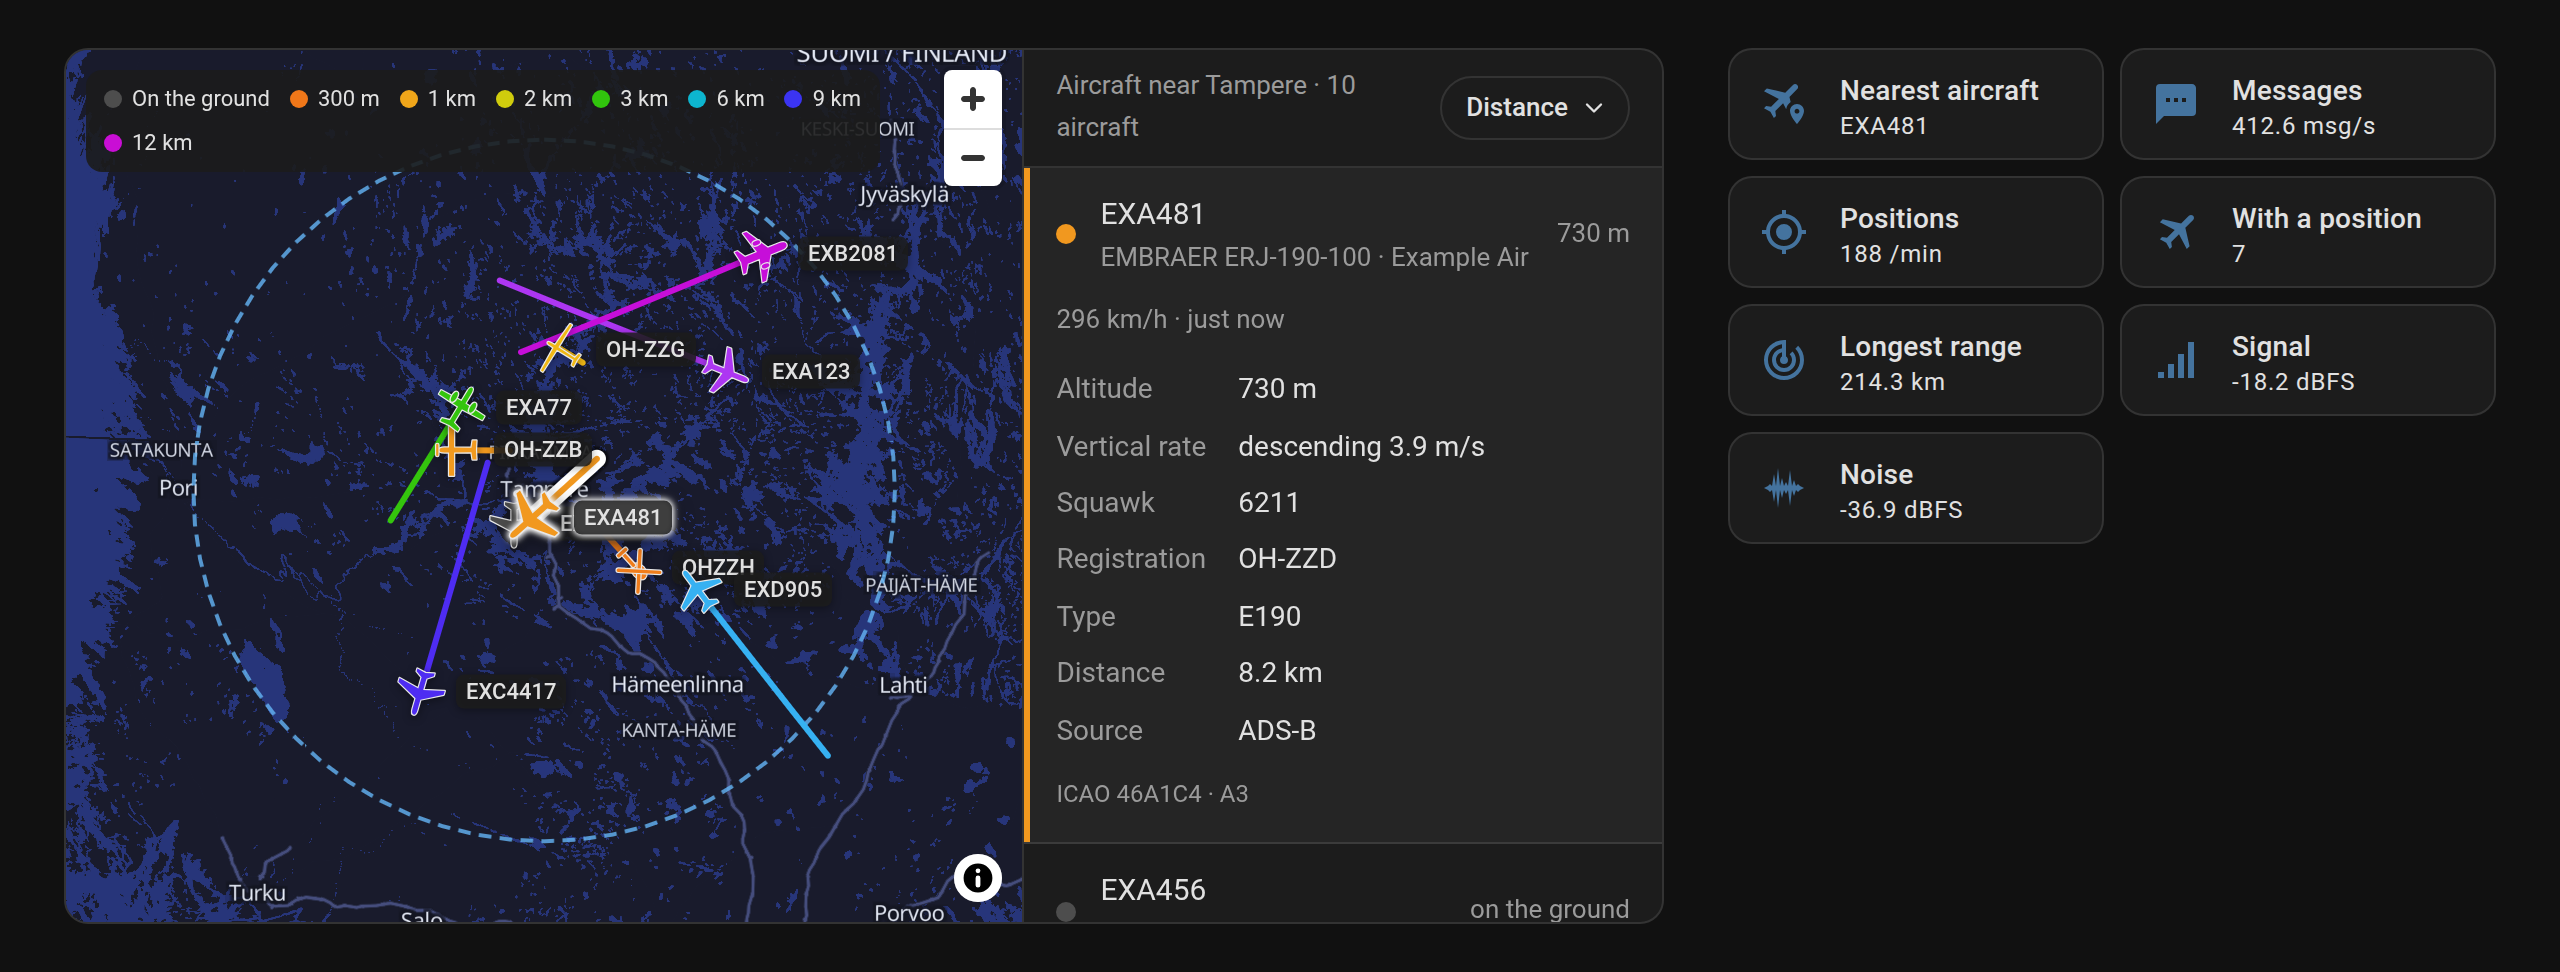
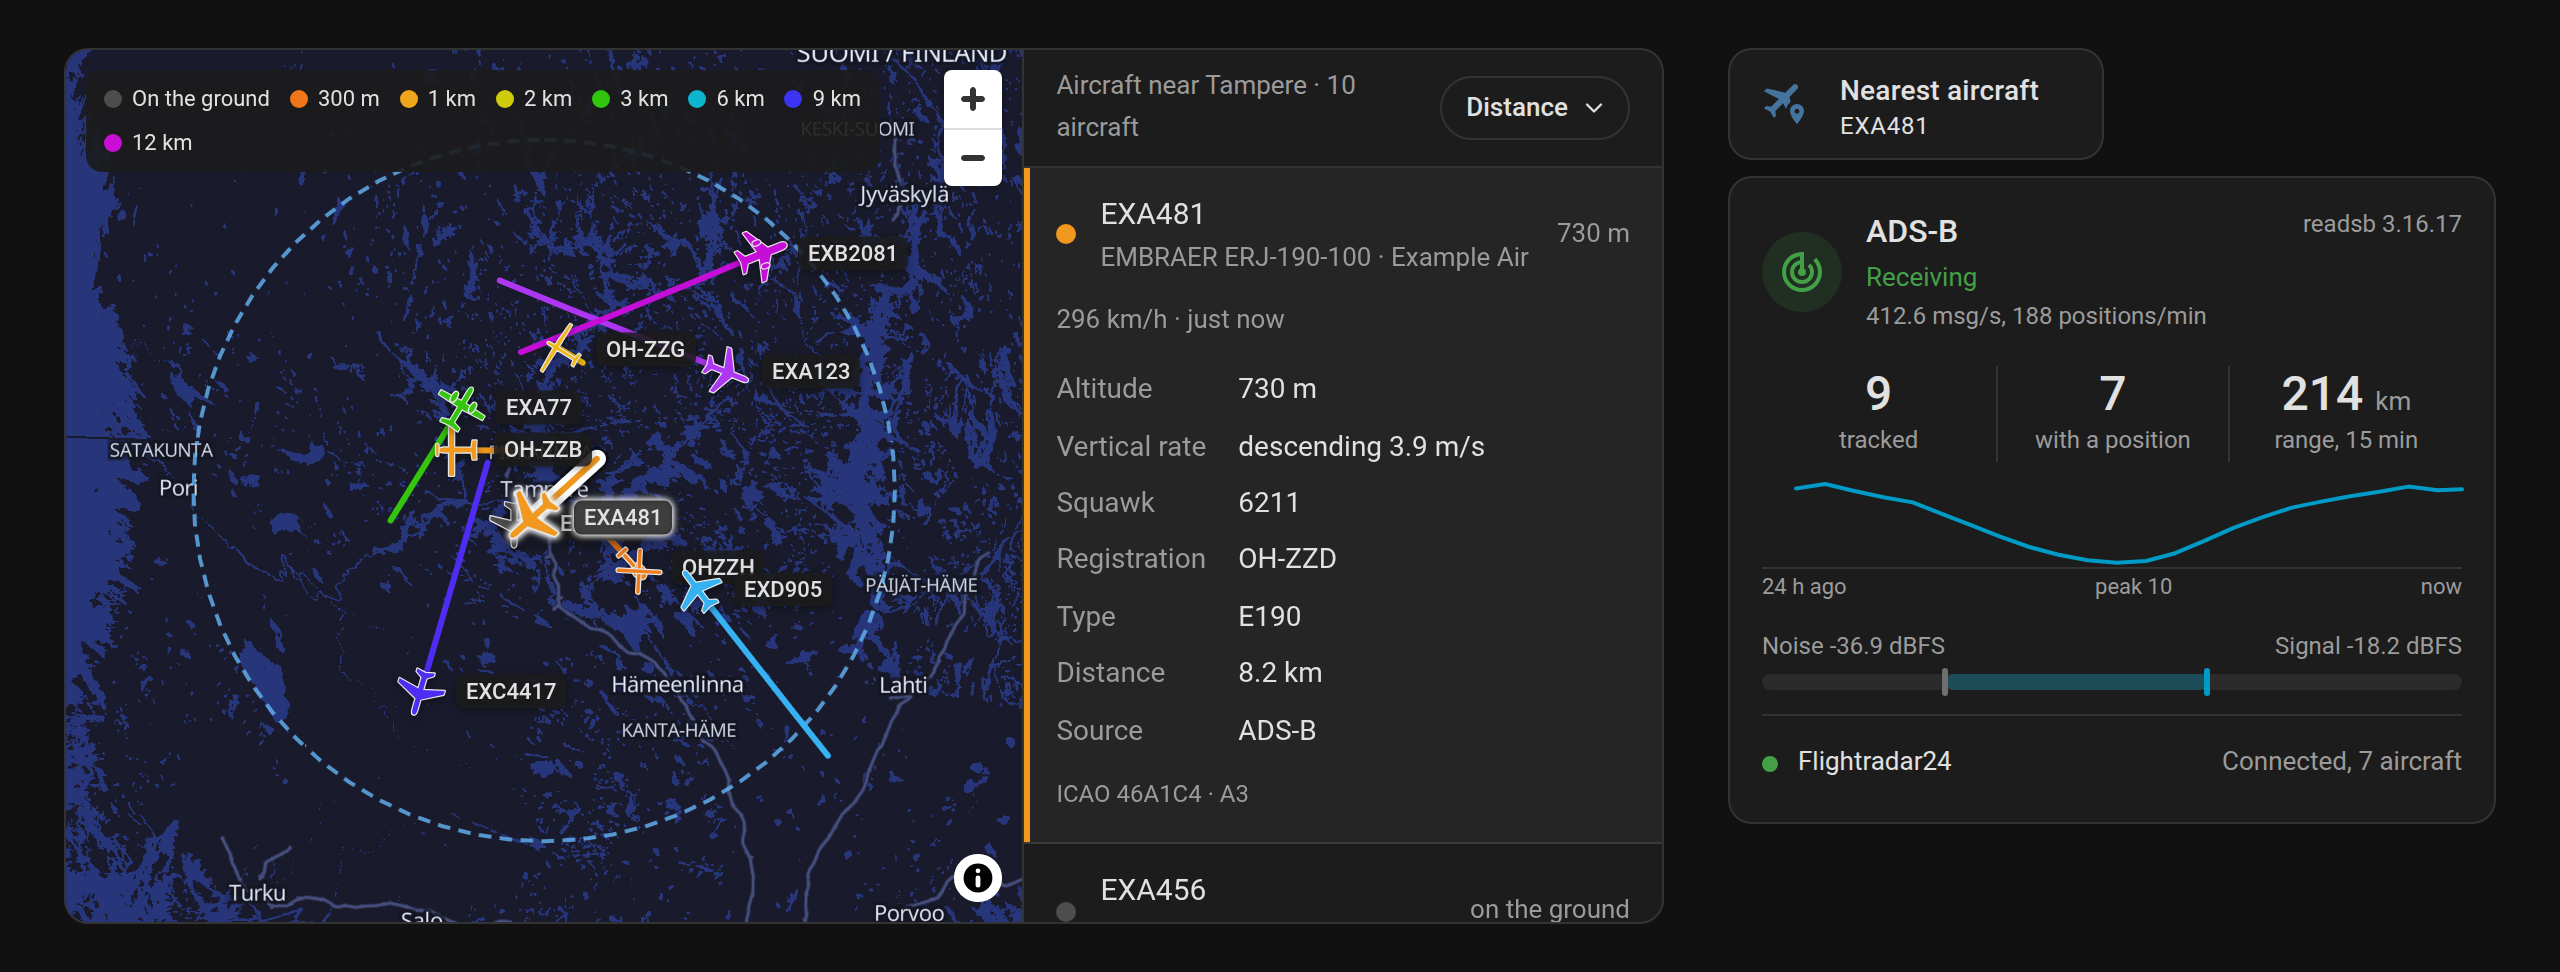
README: the receiver card in the hero image
The receiver's six tiles give way to adsb-receiver-card under the nearest aircraft, as on a real dashboard, with a made-up receiver and a day of hourly statistics in docs/screenshots.json.

diff --git a/README.md b/README.md
@@ -5,8 +5,8 @@ community network knows, into map feeds, with sensors for the receiver's health.
 
 [![GitHub Release][releases-shield]][releases] [![GitHub Release Date][release-date-shield]][releases] [![HACS][hacs-shield]][hacs] [![License][license-shield]](LICENSE)
 
-<img src="https://raw.githubusercontent.com/jesmak/adsb_live/main/docs/images/dashboard-light.png#gh-light-mode-only" width="1280" alt="A dashboard around Tampere, with a map of ten aircraft drawn as silhouettes in their altitude's colours, with their trails, a legend of the altitudes, the list beside it with an airliner on approach opened to its details, and the receiver's health and nearest aircraft as tiles">
-<img src="https://raw.githubusercontent.com/jesmak/adsb_live/main/docs/images/dashboard-dark.png#gh-dark-mode-only" width="1280" alt="A dashboard around Tampere, with a map of ten aircraft drawn as silhouettes in their altitude's colours, with their trails, a legend of the altitudes, the list beside it with an airliner on approach opened to its details, and the receiver's health and nearest aircraft as tiles">
+<img src="https://raw.githubusercontent.com/jesmak/adsb_live/main/docs/images/dashboard-light.png#gh-light-mode-only" width="1280" alt="A dashboard around Tampere, with a map of ten aircraft drawn as silhouettes in their altitude's colours, with their trails, a legend of the altitudes, the list beside it with an airliner on approach opened to its details, the nearest aircraft as a tile, and the receiver's state on adsb-receiver-card with its day of aircraft tracked">
+<img src="https://raw.githubusercontent.com/jesmak/adsb_live/main/docs/images/dashboard-dark.png#gh-dark-mode-only" width="1280" alt="A dashboard around Tampere, with a map of ten aircraft drawn as silhouettes in their altitude's colours, with their trails, a legend of the altitudes, the list beside it with an airliner on approach opened to its details, the nearest aircraft as a tile, and the receiver's state on adsb-receiver-card with its day of aircraft tracked">
 
 The aircraft in the picture are made up.
 
